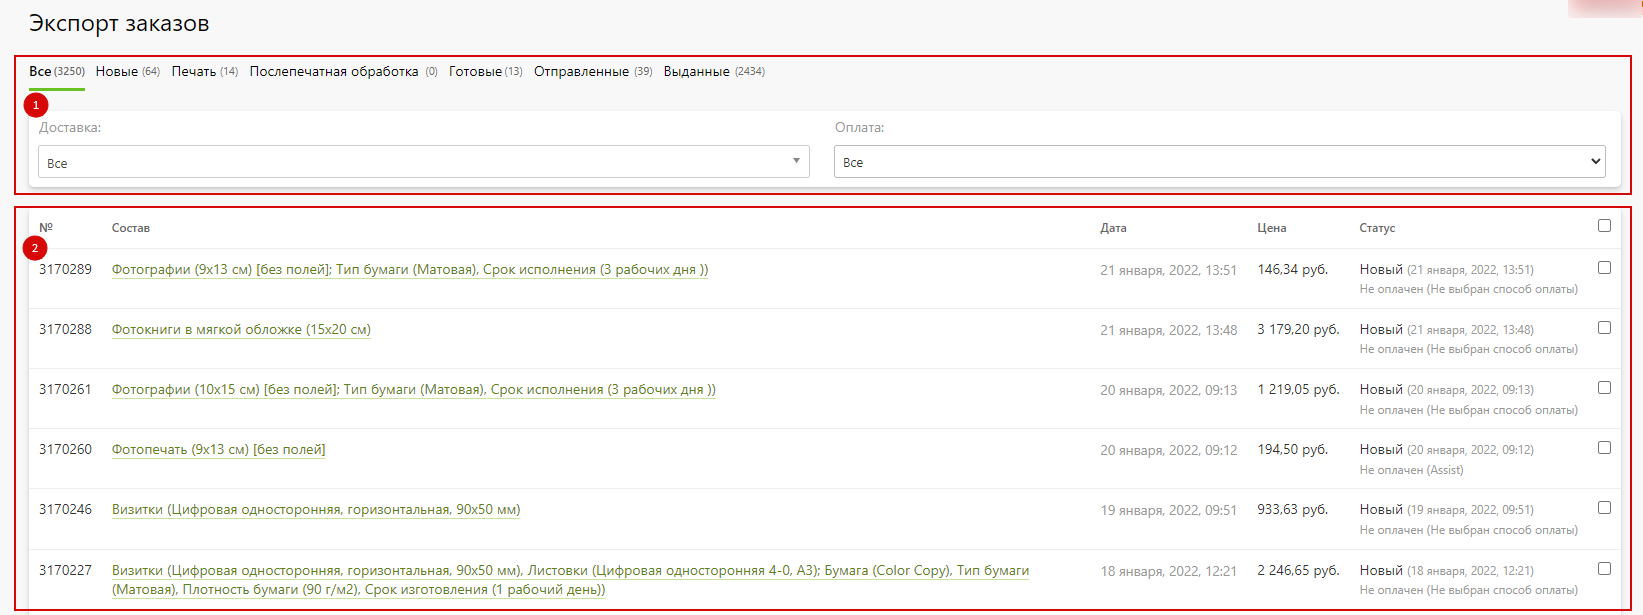
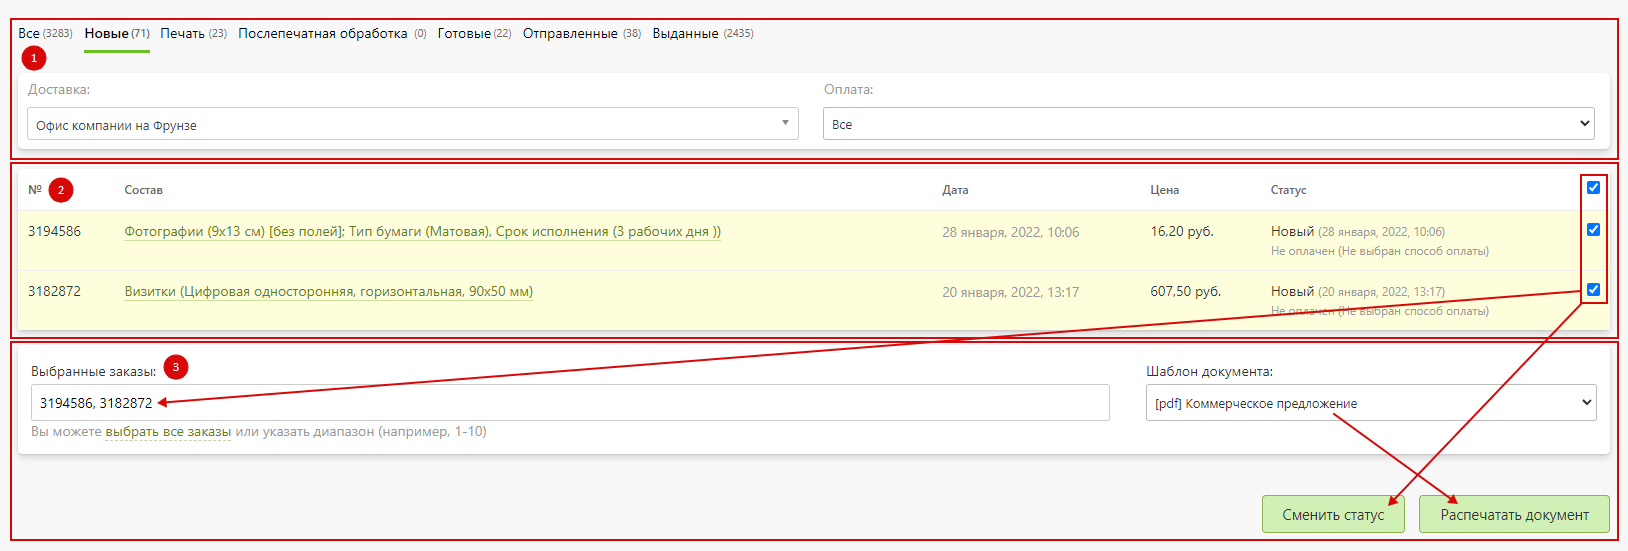
правка экспорт заказов

diff --git a/docs/orders/export.md b/docs/orders/export.md
@@ -1,13 +1,12 @@
 # Экспорт заказов
 
 ![](../_media/order/order41.png ':size=70%')
-![](../_media/order/order42.png ':size=70%')
-## 1. Фильтр
+## 1. Фильтрация заказов
 * **Фильтр заказов** - заказы, удовлетворяющие условию фильтра.
 * **Доставка** - заказы с выбранным способом доставки.
-* **Статус оплаты** - заказы с выбранным статусом оплаты на текущий момент.
+* **Статус оплаты** - заказы с выбранным статусом оплаты.
 
-## 2. Заказы
+## 2. Выбор заказов
 * **Заказы** - список заказов, удовлетворяющих условию фильтра:
     + Номер заказа.
     + Состав заказа.
@@ -16,10 +15,8 @@
     + Производственный статус.
     + Статус оплаты.
 
-## 3. Дополнительные настройки
-* **Выбранные заказы** - указать список заказов, которые надо скачать. Можно указать параметр **all**, чтобы скачать все заказы (или нажать на ссылку *выбрать все заказы*), либо указать диапазон заказов или через запятую.
-* **Шаблон документа** - выбрать готовый шаблон документа.
-
-## 4. Действия
+## 3. Действия
+* **Выбранные заказы** - список заказов. Параметр **all** обозначает все заказы (нажать на ссылку *выбрать все заказы*), либо указать диапазон заказов, либо список заказов через запятую.
+* **Шаблон документа** - выбрать шаблон документа.
 * **Изменить статус** - групповое изменение статуса для выбранных заказов либо на следующий по цепочке доступных статусов, либо на произвольный.
 * **Распечатать документ** - формирование единого сопроводительного документа для выбранных заказов по указанному шаблону.
